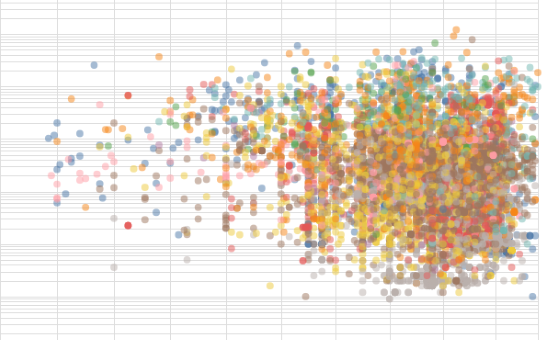
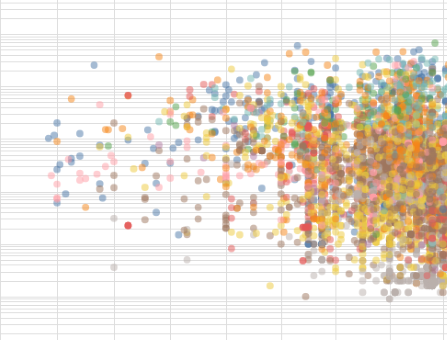
Update site content with new Jekyll site files and folders

diff --git a/_projects/homework_8.md b/_projects/homework_8.md
@@ -16,14 +16,14 @@ This page demonstrates the output of the interactive visualizations I created fo
 
 ## Visualization 1: Histogram Plot - Building Ages based on Year Constructed 
 
-<iframe src="{{ site.baseurl }}/assets/html/histogram.html" style="width: 100%; height: 600px;" frameborder="0"></iframe>
+<iframe src="{{ site.baseurl }}/assets/html/histogram.html" style="width: 100%; height: 500px;" frameborder="0"></iframe>
 
 This interactive histogram dynamically visualizes the ages of buildings, with age calculated as the current year minus the construction year. "Building Age" is on the x-axis, and the count of buildings is on the y-axis, collectively plotting buildings into discrete age bins and highlighting the distribution across various age categories. The encodings used include a quantitative representation of age (x-axis), aggregated counts of buildings (y-axis), color to emphasize distribution, and tooltips for detailed insights. A single color (slateblue) is applied to all bars in the histogram to focus on the distribution shape rather than differentiating between categories. The histogram's interactivity and analytical depth are significantly enhanced by preprocessing steps for data accuracy, including handling missing values and calculating building ages, alongside an interactive age slider that allows viewers to adjust the displayed age range. These design choices craft a comprehensive tool for exploring the age distribution of the building inventory. Hence, this visualization is a great way to make the age data of buildings accessible and engaging.
 
 
 ## Visualization 2: Scatter Plot - Building Year Acquired vs Square Footage
 
-<iframe src="{{ site.baseurl }}/assets/html/scatterplot.html" style="width: 100%; height: 800px;" frameborder="0"></iframe>
+<iframe src="{{ site.baseurl }}/assets/html/scatterplot.html" style="width: 100%; height: 500px;" frameborder="0"></iframe>
 
 This interactive scatter plot explores the relationship between the acquisition year and square footage of buildings, categorized by their usage description. Each point represents a building, plotted to illustrate how its size and the period it was acquired vary by usage type. The visualization has encodings for the  Year Acquired (x-axis), Square Footage (y-axis), color ("Usage Description"), and tooltips, which were optimized by setting the x-axis domain to the actual range of "Year Acquired" in the dataset, ensuring efficient use of space and avoiding data cramping. The logarithmic scale on the y-axis allows for better comparison across buildings of different sizes. The color encoding differentiates buildings based on their usage, adding a layer of categorization that enriches the analysis. This allows viewers to see patterns in how different types of buildings are distributed in terms of size and acquisition year. Interactivity includes a dropdown menu for filtering by usage, adding an enhancive layer for targeted analysis. In particular, the year range on the x-axis had to be adjusted to start from the minimum year in the data instead of zero, to reflect the true temporal spread of the data, improving the plot's clarity and interpretability. These adjustments make the scatter plot more intuitive and informative, facilitating the users' exploration of how building characteristics have evolved over time with respect to their usage purposes.
 
